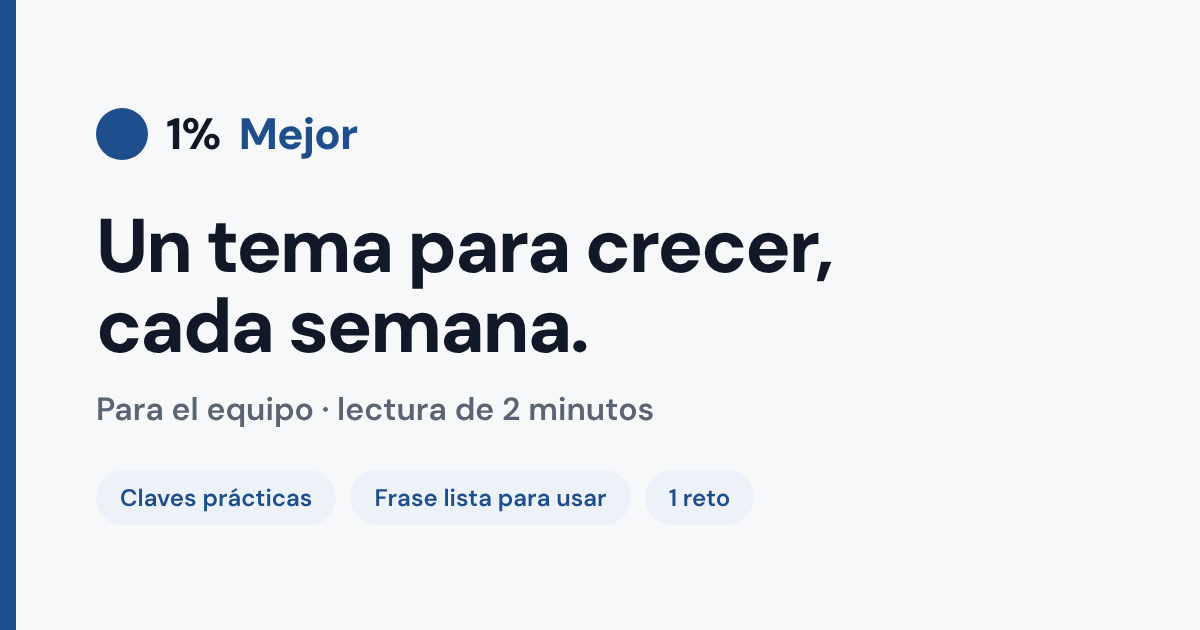
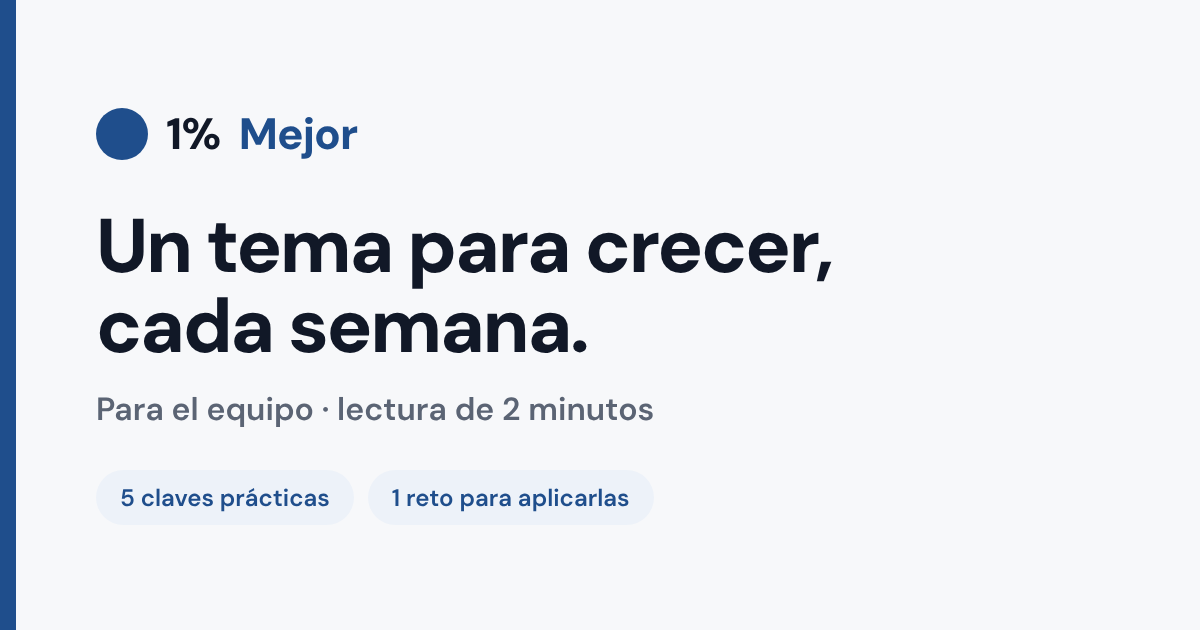
Quita la frase lista y la noticia de ElevenLabs; noticia tech opcional
Claude-Session: https://claude.ai/code/session_013WZbAye7BtUGeiqhUegAdH

Changed region(s): [[0.3083, 0.754, 0.5242, 0.8143], [0.0925, 0.7841, 0.2775, 0.8143], [0.555, 0.7841, 0.6167, 0.8143]]

diff --git a/index.html b/index.html
@@ -4,12 +4,12 @@
 <meta charset="utf-8">
 <meta name="viewport" content="width=device-width, initial-scale=1">
 <title>1% Mejor · el tema de la semana</title>
-<meta name="description" content="Cada semana, un tema para crecer en 2 minutos: claves prácticas, una frase lista para usar, un reto y una noticia tech.">
+<meta name="description" content="Cada semana, un tema para crecer en 2 minutos: claves prácticas y un reto para aplicarlas.">
 <!-- Vista previa al compartir el link (Teams, WhatsApp, Outlook) -->
 <meta property="og:type" content="website">
 <meta property="og:site_name" content="1% Mejor">
 <meta property="og:title" content="1% Mejor · el tema de la semana">
-<meta property="og:description" content="Un tema para crecer, cada semana, en 2 minutos: claves prácticas, una frase lista para usar y un reto.">
+<meta property="og:description" content="Un tema para crecer, cada semana, en 2 minutos: claves prácticas y un reto para aplicarlas.">
 <meta property="og:url" content="https://nayrojas.github.io/1-mejor/">
 <meta property="og:image" content="https://nayrojas.github.io/1-mejor/og.png">
 <meta property="og:image:width" content="1200">
@@ -78,13 +78,6 @@
     display:grid;place-items:center;font-weight:800;font-size:15px}
   .benefit small{display:block;font-size:12px;font-weight:700;letter-spacing:.06em;text-transform:uppercase;color:var(--accent)}
   .benefit p{font-family:var(--head);font-size:19px;font-weight:700;line-height:1.3;margin-top:2px}
-  .frase{margin-top:12px;background:var(--surface);border:1px dashed var(--accent-2);border-radius:16px;padding:14px 16px}
-  .frase-head{display:flex;justify-content:space-between;align-items:center;gap:10px;margin-bottom:6px}
-  .frase small{font-size:12px;font-weight:700;letter-spacing:.06em;text-transform:uppercase;color:var(--accent)}
-  .frase q{display:block;font-size:16px;line-height:1.5;quotes:none}
-  .frase q b{color:var(--accent);font-weight:600}
-  .copy{font-size:13px;font-weight:600;color:var(--accent);padding:5px 10px;border-radius:999px;border:1px solid var(--line);transition:background .2s}
-  .copy:hover{background:var(--accent-tint)}
   .past{display:none;margin-top:14px;font-size:13.5px;font-weight:600;color:var(--muted)}
   .past.on{display:block}
 
@@ -204,16 +197,8 @@ const SEMANAS = [
         { titulo: "Cierra con un pedido claro", texto: "Qué decisión, presupuesto o apoyo necesitas, y para cuándo." },
         { titulo: "Prueba con alguien de negocio", texto: "Si no lo entiende en 2 minutos, simplifica." }
       ],
-      frase: "Hoy tenemos [problema], que causa [impacto]. Propongo [opción] y necesito [pedido] para [fecha].",
       fuente: "The Pyramid Principle, de Barbara Minto (McKinsey)",
       reto: { titulo: "Tu pedido en 3 partes", texto: "Antes de tu próximo refinamiento o comité, escribe tu pedido así: problema, impacto y qué necesitas." }
-    },
-    tech: {
-      etiqueta: "IA de voz",
-      titulo: "ElevenLabs lanza Eleven v4",
-      resumen: "Su nuevo modelo genera voces casi indistinguibles de una persona, en más de 90 idiomas.",
-      porQue: "Abre la puerta a asistentes de voz más naturales, pero también facilita fraudes por suplantación de voz.",
-      link: { texto: "Leer en español", url: "https://www.eesel.ai/es/blog/eleven-v4-explicado" }
     }
   },
   {
@@ -229,7 +214,6 @@ const SEMANAS = [
         { titulo: "Define tu «una cosa»", texto: "¿Qué tarea haría de hoy un buen día?" },
         { titulo: "Cierra en 5 minutos", texto: "Anota dónde quedaste y qué sigue." }
       ],
-      frase: "Ahora tengo un bloque de foco para [tarea]. ¿Lo vemos a las [hora]?",
       fuente: "Deep Work, de Cal Newport",
       reto: { titulo: "Tus 3 prioridades", texto: "El lunes, escribe las 3 cosas que harían de tu semana un éxito." }
     },
@@ -265,10 +249,6 @@ function render() {
           <span class="ico" aria-hidden="true"><svg width="16" height="16" viewBox="0 0 24 24" fill="none" stroke="currentColor" stroke-width="3" stroke-linecap="round" stroke-linejoin="round"><path d="M5 12l5 5L20 7"/></svg></span>
           <div><small>Te ayuda a</small><p>${d.ayuda || ""}</p></div>
         </div>
-        ${d.frase ? `<div class="frase">
-          <div class="frase-head"><small>Frase lista para usar</small><button class="copy" type="button">Copiar</button></div>
-          <q>${d.frase.replace(/\[([^\]]+)\]/g, "<b>[$1]</b>")}</q>
-        </div>` : ""}
         <p class="past ${semana === 0 ? "" : "on"}">Estás viendo una semana anterior. Usa la flecha › para volver a la actual.</p>
       </div>
       <div class="tips rise" style="animation-delay:.12s">
@@ -295,7 +275,7 @@ function render() {
       <p class="fb" aria-live="polite"></p>
     </div>` : ""}
 
-    <div class="tech rise" style="animation-delay:.28s">
+    ${t ? `<div class="tech rise" style="animation-delay:.28s">
       <span class="ico" aria-hidden="true"><svg width="20" height="20" viewBox="0 0 24 24" fill="none" stroke="currentColor" stroke-width="2" stroke-linecap="round" stroke-linejoin="round"><rect x="4" y="4" width="16" height="16" rx="3"/><path d="M9 9h6v6H9z"/><path d="M9 1v3M15 1v3M9 20v3M15 20v3M20 9h3M20 14h3M1 9h3M1 14h3"/></svg></span>
       <div class="txt">
         <small>Además, en tech · ${t.etiqueta}</small>
@@ -304,14 +284,8 @@ function render() {
         ${t.porQue ? `<p class="why"><b>Por qué nos importa:</b> ${t.porQue}</p>` : ""}
       </div>
       <a class="cta" href="${t.link.url}" target="_blank" rel="noopener">${t.link.texto} <span aria-hidden="true">→</span></a>
-    </div>`;
+    </div>` : ""}`;
 
-  const cp = $(".copy");
-  if (cp) cp.onclick = async () => {
-    try { await navigator.clipboard.writeText(d.frase); cp.textContent = "✓ Copiada"; }
-    catch (e) { cp.textContent = "Selecciónala y copia"; }
-    setTimeout(() => (cp.textContent = "Copiar"), 1800);
-  };
   document.querySelectorAll(".opt").forEach(o => o.onclick = () => {
     const i = +o.dataset.i, rp = s.repaso, fb = $(".quiz .fb");
     document.querySelectorAll(".opt").forEach(x => { x.disabled = true; if (+x.dataset.i === rp.correcta) x.classList.add("ok"); else if (x === o) x.classList.add("no"); });

diff --git a/README.md b/README.md
@@ -1,6 +1,6 @@
 # 1% Mejor
 
-Un tema para crecer, cada semana, en 2 minutos: claves prácticas, una frase lista para usar, un reto, un repaso y una noticia tech.
+Un tema para crecer, cada semana, en 2 minutos: claves prácticas, un reto, un repaso y, si hay, una noticia tech.
 
 Página: https://nayrojas.github.io/1-mejor/
 
@@ -10,9 +10,9 @@ Página: https://nayrojas.github.io/1-mejor/
 2. Copia la semana más reciente y pégala **al inicio** de la lista.
 3. Cambia estos campos:
    - `numero` y `fechas`
-   - `soft`: `categoria`, `titulo` (el tema), `ayuda` (en qué ayuda, en una frase), `tips` (máximo 5), `frase` (usa `[corchetes]` para lo que se completa), `fuente` y `reto`
+   - `soft`: `categoria`, `titulo` (el tema), `ayuda` (en qué ayuda, en una frase), `tips` (máximo 5), `fuente` y `reto`
    - `repaso` (opcional): una pregunta sobre la semana anterior, con sus `opciones`, la `correcta` (0 = la primera) y una `explica`
-   - `tech`: `etiqueta`, `titulo`, `resumen`, `porQue` (por qué nos importa) y `link`
+   - `tech` (opcional): `etiqueta`, `titulo`, `resumen`, `porQue` (por qué nos importa) y `link`. Si una semana no tiene noticia, omite el bloque.
 4. Haz commit. GitHub Pages publica los cambios en uno o dos minutos.
 
 La imagen `og.png` es la que aparece al compartir el link en Teams, WhatsApp u Outlook.
